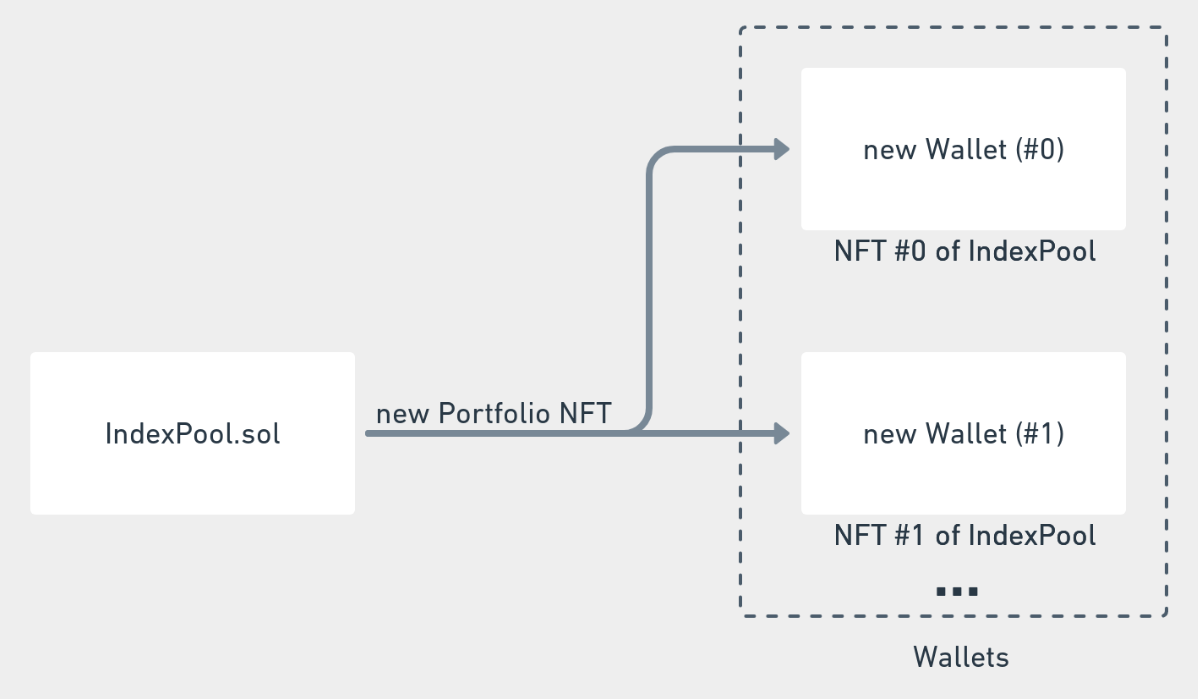
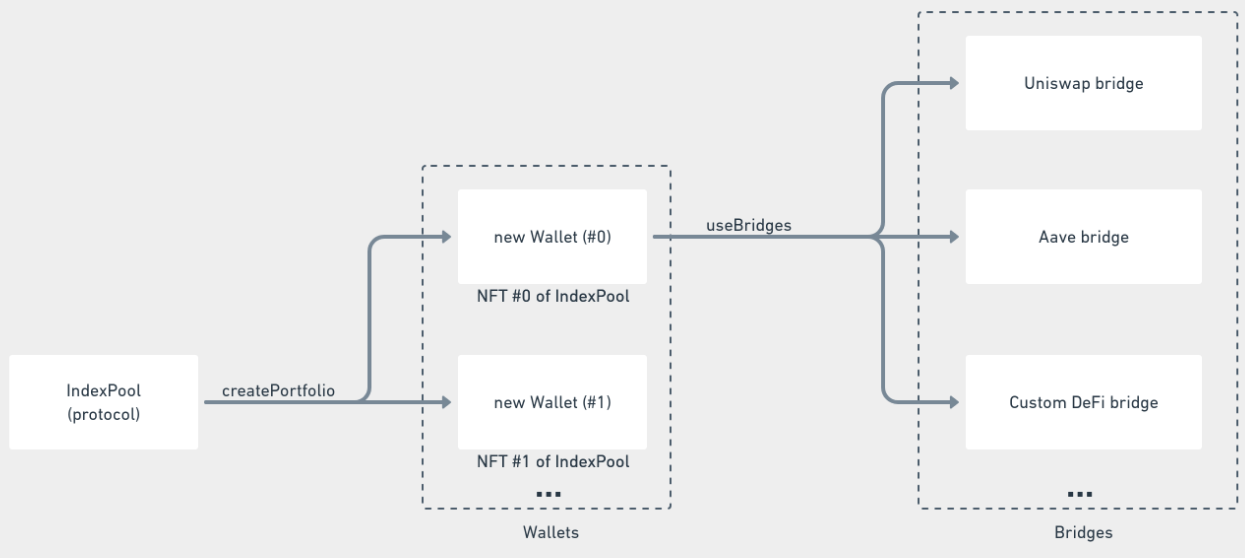
GitBook: [main] one page and 3 assets modified

diff --git a/users/bridges.md b/users/bridges.md
@@ -4,17 +4,21 @@
 
 Bridges are smart contracts that IndexPool uses to interact with other DeFi protocols.
 
-For example we have a bridge to do swaps on Uniswap, a bridge to do deposits on Aave... Bridges extend functionality into the IndexPool protocol and emits events that are used to display transactions in the IndexPool app.
+For example we have a bridge to do swaps on Uniswap, a bridge to do deposits on Aave, or a bridge to any other DeFi protocol. Bridges extend functionality into the IndexPool protocol and emits events that are used to display transactions in the IndexPool app.
 
 ## How bridges interact with the Portfolio NFT?
 
-Once a bridge is called it can use the available funds in the NFT. 
+![Wallets link with bridges to enable integrations with DeFi protocols](../.gitbook/assets/image%20%286%29.png)
 
-It is extremely important only to interact with trusted bridges, which are the only available bridges by default in the IndexPool plataform, which means that as long you as you don't any any custom bridges to your [indexpool.org](http://indexpool.org/) app you are safe from interacting with untrusted bridges.
+Bridges are always called directly from the Wallet linked to the Portfolio NFT. Bridges have the power to use all the available funds in that particular Portfolio NFT. So, it is extremely important only to interact with trusted bridges \(see below\).
 
-See [IndexPool architecture](https://docs.indexpool.org/developer/architecture) as a reference on how bridges connect with the Portfolio NFT and Wallets.
+_See_ [_IndexPool architecture_](https://docs.indexpool.org/developer/architecture) _for a more technical reference on how bridges interacts with IndexPool._
 
 ## What is a trusted bridge?
 
-A trusted bridge is a bridge that was written or reviewed by the IndexPool team. Once the IndexPool protocol goes through an audit, trusted bridges will also be audited.
+A trusted bridge is a bridge that was reviewed by the IndexPool team. Once the IndexPool protocol goes through an audit, trusted bridges will also be audited.
+
+Trusted bridges are the only available bridges by default in the IndexPool app, which means that as long you as you don't add any custom bridges to your [indexpool.org](http://indexpool.org/) app you are safe from interacting with untrusted bridges.
+
+
 
